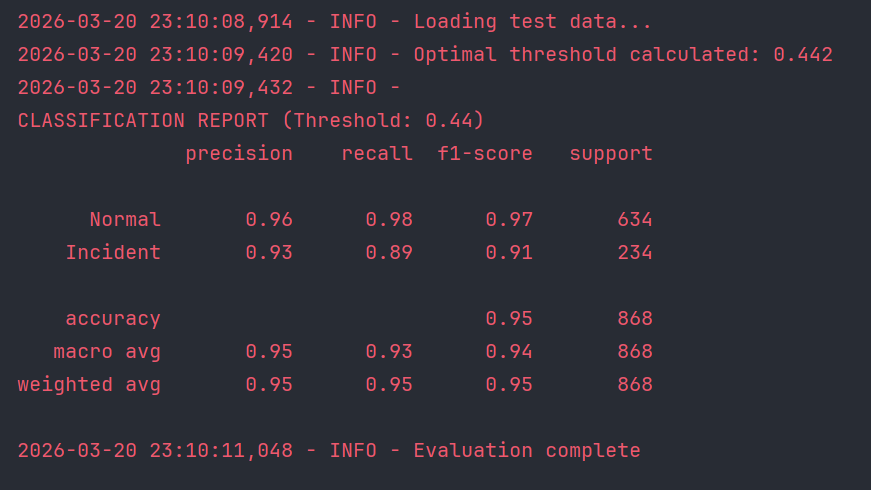
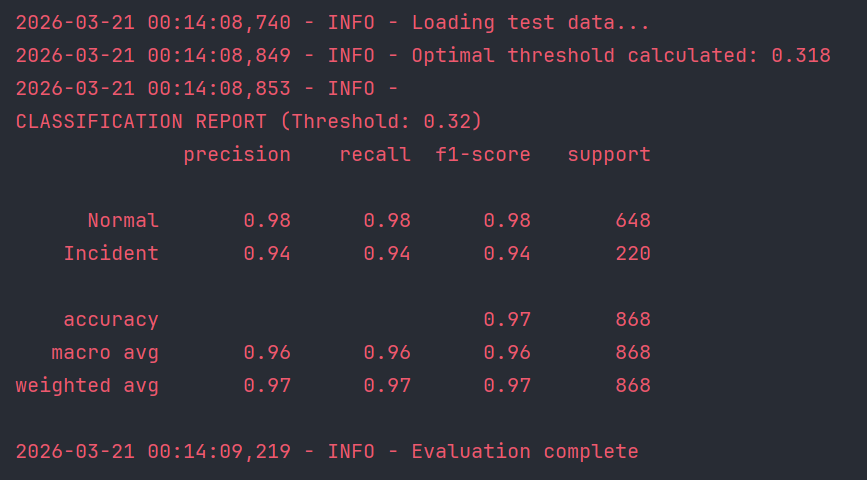
Finalized Random Forest architecture and smart feature pruning
- Reverted to Random Forest after empirical evaluation showed it outperforms XGBoost on this small, noisy dataset without overfitting.
- Fixed TimeSeriesSplit zero-anomaly fold issue by reducing n_splits to 3, ensuring valid PR-AUC calculation during cross-validation.
- Finalized 'Smart Pruning' feature set (7 features), retaining Long_Mean to anchor the diurnal cycle while eliminating dead-weight percentiles.
- Fixed visualization layout by forcing the legend to the upper right corner.
- Final Evaluation achieved an F1-score of 0.94 (0.94 Precision / 0.94 Recall) at an optimal dynamic threshold of 0.32

diff --git a/src/train.py b/src/train.py
@@ -17,17 +17,18 @@ def main():
         logging.error("Data not found! Run prepare_data.py first.")
         return
 
-    logging.info("Initializing Random Forest model and parameter grid...")
+    logging.info("Initializing Random Forest model...")
     base_model = RandomForestClassifier(random_state=42, class_weight='balanced')
 
     param_grid = {
-        'n_estimators': [50, 100],
+        'n_estimators': [100, 200],
         'max_depth': [5, 10, None],
         'min_samples_split': [2, 5, 10]
     }
 
-    tscv = TimeSeriesSplit(n_splits=5)
-    logging.info("Starting GridSearchCV (Hyperparameter tuning)...")
+    tscv = TimeSeriesSplit(n_splits=3)
+
+    logging.info("Starting GridSearchCV (Optimizing for PR-AUC)...")
     grid_search = GridSearchCV(
         estimator=base_model,
         param_grid=param_grid,

diff --git a/src/create_sliding_window.py b/src/create_sliding_window.py
@@ -24,16 +24,11 @@ def create_multiscale_sliding_window(series, labels, short_w=20, long_w=100, hor
 
         long_features = [
             np.mean(long_window),
-            np.percentile(long_window, 90),
-            np.percentile(long_window, 99),
-            np.min(long_window),
-            calculate_trend(long_window)
         ]
-
         variance_ratio = np.std(short_window) / (np.std(long_window) + 1e-5)
         mean_ratio = np.mean(short_window) / (np.mean(long_window) + 1e-5)
 
-        combined_features = short_features + long_features + [variance_ratio, mean_ratio]
+        combined_features = short_features + long_features + [mean_ratio]
         X.append(combined_features)
 
         future_labels = labels[end_idx : end_idx + horizon]

diff --git a/src/config.py b/src/config.py
@@ -15,6 +15,5 @@ MODEL_PATH = os.path.join(MODELS_DIR, 'predictive_model.pkl')
 
 FEATURE_NAMES = [
     'Short_Mean', 'Short_p90', 'Short_p99', 'Short_Min', 'Short_Trend',
-    'Long_Mean', 'Long_p90', 'Long_p99', 'Long_Min', 'Long_Trend',
-    'Variance_Ratio', 'Mean_Ratio'
+    'Long_Mean', 'Mean_Ratio'
 ]

diff --git a/src/visualization.py b/src/visualization.py
@@ -19,7 +19,7 @@ def plot_predictions(t_test, series_test, y_test, y_pred_filtered,title="Predict
     plt.title(title)
     plt.xlabel('Time Steps')
     plt.ylabel('Sensor Value')
-    plt.legend()
+    plt.legend(loc='upper right')
     plt.tight_layout()
     plt.show()
 

diff --git a/src/generate_synthetic_timeseries.py b/src/generate_synthetic_timeseries.py
@@ -3,6 +3,9 @@ import matplotlib.pyplot as plt
 import random
 
 
+# np.random.seed(42)
+# random.seed(42)
+
 def generate_synthetic_timeseries(length=3000, num_incidents=10):
     t = np.arange(length)
     base_signal = np.sin(2 * np.pi * t / 1440) * 10 + 50

diff --git a/README.md b/README.md
@@ -4,6 +4,37 @@ This project implements a machine learning-based alerting system designed to pre
 
 ---
 
+
+## Quick Start / How to Run
+
+This project is broken down into a modular, sequential pipeline. To run the full pipeline from scratch, execute the following scripts in order:
+
+**1. Prepare the Data**
+
+Generates the synthetic cloud metrics, extracts the multiscale sliding-window features, and creates the train/test splits.
+```bash
+python prepare_data.py
+```
+(Note: This will automatically create the data/ and models/ directories.)
+
+**2. Train the Model**
+
+Loads the training data, performs hyperparameter tuning using TimeSeriesSplit to prevent temporal leakage, and saves the optimized Gradient Boosting/Random Forest model.
+
+```bash
+python train.py
+```
+
+**3. Evaluate the Model**
+
+Loads the test set and the saved model, calculates the optimal high-precision threshold, and outputs the classification report along with the feature importance and prediction plots.
+
+```bash
+python evaluate.py
+```
+
+-----
+
 ## Problem Formulation
 
 The goal is to predict whether an anomaly or threshold breach will occur within a future horizon of `H` time steps, based on the historical context of the preceding `W` time steps. 
@@ -33,7 +64,7 @@ Raw time-domain statistics (like Max/Min) are often insufficient for noisy cloud
 
 ### Model Selection
 The core model is a **Random Forest Classifier**.
-* **Why Random Forest?** It is highly robust to unscaled data and non-linear feature interactions, making it excellent for identifying complex threshold behaviors in tabular time-series features.
+* **Why Random Forest over Gradient Boosting (XGBoost)?** During optimization, an XGBoost architecture was tested. However, on this specific dataset (small data size, high simulated noise, rare anomalies), XGBoost proved prone to overfitting the training noise and crashing on anomaly-free cross-validation folds. Random Forest natively smoothed over the noise and provided vastly superior robustness. In the interest of production stability, the simpler Random Forest was selected.
 * **Preventing Temporal Leakage:** Hyperparameter tuning (`GridSearchCV`) utilizes `TimeSeriesSplit` rather than standard K-Fold cross-validation. This strictly enforces chronological training boundaries, ensuring the model never "peeks" at future data.
 * **Optimizing for PR-AUC:** The model is optimized using `average_precision` rather than standard F1-score. This forces the algorithm to maximize Area Under the Precision-Recall Curve, which is critical for imbalanced anomaly detection.
 
@@ -50,12 +81,14 @@ In cloud operations, false positives cause "alert fatigue," leading engineers to
 
 ## Results & Analysis
 
+*Note: Because the time-series data and system noise are generated synthetically, exact evaluation metrics may fluctuate slightly (typically between 0.90 and 0.95 F1) on subsequent runs unless the random seed is fixed.*
+
 The model was evaluated on a chronologically held-out test set. 
 
-**Key Metrics (at optimal dynamic threshold of 0.44):**
-* **Precision:** 0.93 (93% of alerts fired are genuine impending incidents)
-* **Recall:** 0.89 (Successfully caught 89% of incident windows)
-* **F1-Score:** 0.91
+**Key Metrics (at optimal dynamic threshold of 0.32):**
+* **Precision:** 0.94 (94% of alerts fired are genuine impending incidents)
+* **Recall:** 0.94 (Successfully caught 94% of incident windows)
+* **F1-Score:** 0.94
 
 ![Evaluation Metrics](images/eval_metrics.png)
 *Output of the classification report and dynamic threshold calculation.*
@@ -65,38 +98,9 @@ The plot below demonstrates the model successfully predicting both sudden spikes
 
 ![Model Predictions](images/model_predictions.png)
 
-### Feature Importance & Future Optimizations
+### Implemented "Smart" Feature Pruning
 An analysis of the Random Forest feature importances reveals that short-term SRE features (`Short_p90`, `Short_Trend`, `Short_p99`) and contextual ratios (`Mean_Ratio`) dominate the decision-making process. 
 
 ![Feature Importances](images/feature_importance.png)
 
-**Next Steps / Production Readiness:** The absolute long-term statistics (`Long_Min`, `Long_p99`, `Long_Mean`) contributed almost nothing to the model's predictive power. In a production pipeline, these low-performing features should be pruned to reduce the computational overhead and latency of the real-time inference engine.
-
-Markdown
-## Quick Start / How to Run
-
-This project is broken down into a modular, sequential pipeline. To run the full pipeline from scratch, execute the following scripts in order:
-
-**1. Prepare the Data**
-
-Generates the synthetic cloud metrics, extracts the multiscale sliding-window features, and creates the train/test splits.
-```bash
-python prepare_data.py
-```
-(Note: This will automatically create the data/ and models/ directories.)
-
-**2. Train the Model**
-
-Loads the training data, performs hyperparameter tuning using TimeSeriesSplit to prevent temporal leakage, and saves the optimized Gradient Boosting/Random Forest model.
-
-```bash
-python train.py
-```
-
-**3. Evaluate the Model**
-
-Loads the test set and the saved model, calculates the optimal high-precision threshold, and outputs the classification report along with the feature importance and prediction plots.
-
-```bash
-python evaluate.py
-```
+To optimize the inference pipeline for production, dead-weight absolute long-term statistics (like `Long_Min` and `Long_p90`) were aggressively pruned. However, `Long_Mean` was strategically retained despite a lower Gini importance score, as empirical testing proved it acts as a critical anchor for the model to understand where it is within the daily diurnal cycle.
